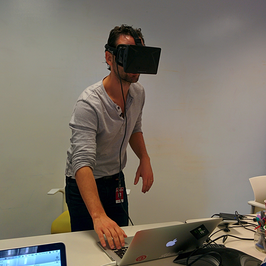
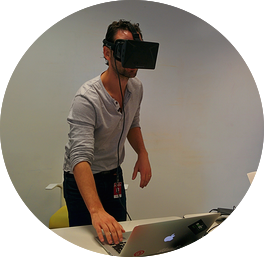
update February

Changed region(s): [[0.0, 0.0623, 1.0, 1.0], [0.5455, 0.0, 1.0, 0.4358], [0.0, 0.0, 0.4545, 0.4358]]

diff --git a/public/index.html b/public/index.html
@@ -104,11 +104,11 @@
               </div>
                <div class="col-md-9">
               
-                <p>We moved to America early 90s where I stayed thru college.</p>
+                <p>I am the last of three boys from Lyon France where I lived for the first 10 years of my life.  I grew up learning about hard work and ethics through sports and the never ending mind games my father and brothers encouraged me to play. We moved to America early 90s where I stayed thru college.</p>
                 <p>After graduating from college, I decided to travel around the world for nearly 1 year which was an amazing experience. I spent a lot of time in Europe and bit in Asia as well. I enjoy getting immersed in different cultures, observing individuals, getting to know them, and building relationships. Then my wife had the opportunity to work in New York within fashion so we did it.  It was an incredible experience and this amazing city taught us many professional traits that simply could not be learned anywhere else...<p>
                 <p>Our next journey took us to Wisconsin where I joined the start up Red Dot Square Solutions as the 3rd U.S. employee.  We provided Virtual Reality capabilities to all major global CPG and retailers of the world.  We quickly grew to over 60 employees before being acquired by WPP in 2009 at which time I was based in Minneaoplis.</p>
                 <p>I joined Target Corp. in 2012 where I have spent the best years of my career thus far.  I am surrounded by an amazing team, the work is challenging, and I continue to learn.
-                <p>My best quality is that I care...I care about my colleagues...I care about the products I work on...I care about the users of those products...I care about the companies I work at...I believe that magic can happen when everyone cares for the right reasons...but more importantly, as much as I care about all of these things, what I care the most about is my family...
+                
                  
               </div>
             </div>
@@ -125,7 +125,7 @@
                 </header>
             <div class="row">
               <div class="col-md-2">
-               <span class="chart" data-percent="90">
+               <span class="chart" data-percent="100">
                       <span class="percent"></span>
                       <h3>Virtual Reality</h3>
                </span>
@@ -137,21 +137,21 @@
                </span>
             </div>
                <div class="col-md-2">
-               <span class="chart" data-percent="80">
+               <span class="chart" data-percent="1000">
                       <span class="percent"></span>
                        <h3>Digital Acumen</h3>
                </span>
             </div>
                <div class="col-md-2">
-               <span class="chart" data-percent="80">
+               <span class="chart" data-percent="100">
                       <span class="percent"></span>
-                      <h3>Business Acumen</h3>
+                      <h3>Strategy</h3>
                </span>
             </div>
                <div class="col-md-2">
-               <span class="chart" data-percent="90">
+               <span class="chart" data-percent="100">
                       <span class="percent"></span>
-                      <h3>Leader</h3>
+                      <h3>Proven Leader</h3>
                </span>
             </div>
                <div class="col-md-2">
@@ -208,7 +208,7 @@
                       <h3>Target - Strategy and Innovation</h3>
                       <p>Team Lead / Minneapolis, MN / 2015 - Current</p>
                     </header>
-                      <p>Our team is tasked with coming up and executing on new business ventures Target should enter - both physical and digital.  This entails determining which opportunity spaces we should enter, filtering which ones have greater change of impact, then putting the right team around them.  My responsbilities are very similar to previous role but more prominent in playing the role of an entrepreneur in residence.</p>
+                      <p>Our team is tasked with coming up and executing on new business ventures Target should enter - both physical and digital.  This entails determining which opportunity spaces we should enter, filtering which ones have greater change of impact, then putting the right team around them.  My responsbilities are very similar to previous role but more prominent in playing the role of an intrapreneur.</p>
                   </article>
 
                 </div>
@@ -244,12 +244,7 @@
                     <p class="section-subtitle">a flavor for some of the work I am proud of my involvment in... </p>
                 </header>
            
-                <div id="grid-controls-wrapper">
-                <ul class="nav nav-pills center-pills grid-controls">
-                  <li class="active filter"><a href="javascript:void(0)" data-filter="*">All</a></li>
-                  <li class="filter" ><a href="javascript:void(0)" data-filter=".branding">Articles</a></li>   
-                  <li class="filter" ><a href="javascript:void(0)" data-filter=".design">Investments</a></li>    
-                  <li class="filter" ><a href="javascript:void(0)" data-filter=".web">Websites</a></li>
+               
                 </ul>
               </div>
             
@@ -257,12 +252,8 @@
                   <ul id="grid" class="grid-wrapper">
                       <li class="mix web">
                        <a href="http://targetrad.com/"> <div class="overlay"><i class="fa fa-search"></i></div><img src="img/portfolio/small/RADvideo.png"  alt="" ></a> </li>
-                      <li class="mix design fart">
-                        <a href="img/portfolio/large/PhoLarge.png"><div class="overlay"><i class="fa fa-search"></i></div><img src="img/portfolio/small/PhoSmall.png" alt="" ></a></li>
-                      <li class="mix design fart">
-                        <a href="img/portfolio/large/MosaicLarge.png"><div class="overlay"><i class="fa fa-search"></i></div><img src="img/portfolio/small/MosaicSmall.png" alt="" ></a></li>
-                      <li class="mix web">
-                        <a href="https://frenchie-roux.squarespace.com/"><div class="overlay"><i class="fa fa-search"></i></div><img src="img/portfolio/small/squarespace.png" alt="" ></a></li>
+ 
+                      
                       <li class="mix branding">
                         <a href="http://www.mobilecommercedaily.com/target-is-2013-mobile-retailer-of-the-year"><div class="overlay"><i class="fa fa-search"></i></div><img src="img/portfolio/small/MobileCommerceSmall.png" alt="" ></a></li>
                       <li class="mix branding">

diff --git a/public/css/main.css b/public/css/main.css
@@ -124,7 +124,7 @@ background-color: transparent;
 }
 
 #page-profile .profile{
-    border: 5px solid #333;
+    border: 0px solid #333;
     width:225px;
     height:225px;
     margin: 0 20px 20px 0;
